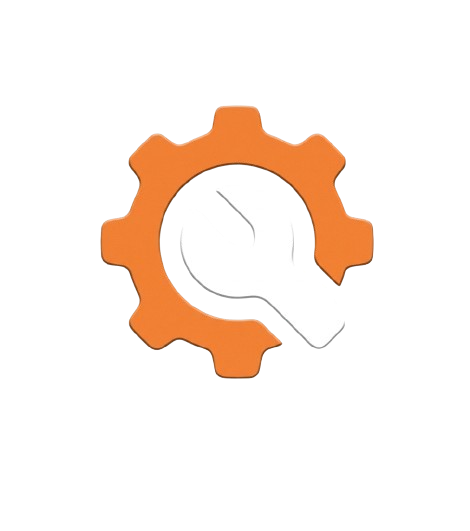
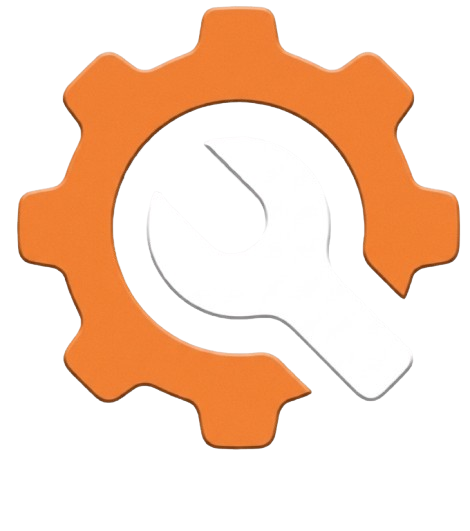
sss

diff --git a/app/components/body.tsx b/app/components/body.tsx
@@ -1,14 +1,24 @@
-export default function Body() {
+export default function Body() {                     
   return (
     <main>
-      {/* 1. Hero Section */}
-      <div className="bg-[#43695a] text-white py-16 lg:py-24 relative">
+      {/* AQUI ESTÁ A BARRINHA DA CORDA */}                     {/*separação da corda*/}
+      <div 
+        className="h-3 w-full relative z-50 shadow-md" 
+        style={{
+          backgroundImage: 'repeating-linear-gradient(45deg, #967240 0px, #967240 8px, #c29b63 8px, #c29b63 16px)'
+        }} 
+      />
+
+     {/* 1. Hero Section */}                                                    
+      <div className="bg-[#3b5d50] text-white py-16 lg:py-24 relative">
         <div className="container mx-auto px-4">
           <div className="grid grid-cols-1 lg:grid-cols-12 gap-8 items-center">
-            <div className="lg:col-span-5 z-10 text-center lg:text-left">
+            {/* Conteúdo de Texto */}
+            <div className="lg:col-span-5 z-10 text-center lg:text-left">            {/*separação da corda*/}
               <h1 className="text-4xl lg:text-5xl font-extrabold mb-6 leading-tight">
                 WJT <span className="block text-white/90 font-normal">Comércio e manutenção de máquinas</span>
               </h1>
+             
               <div className="text-white/70 mb-8 max-w-md mx-auto lg:mx-0 leading-relaxed space-y-2">
                 <p>Tudo em Jardinagem & Construção Civil</p>
                 <p>Manutenção Especializada</p>